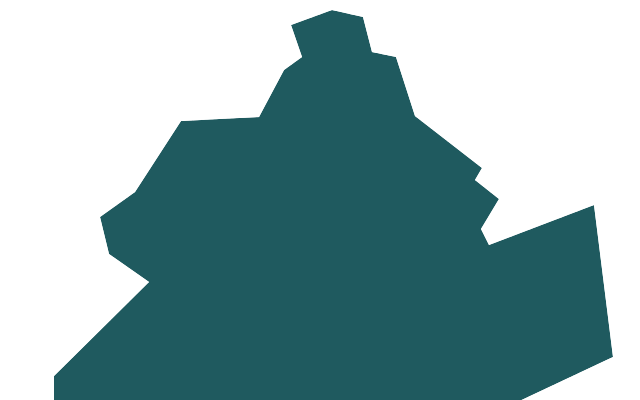
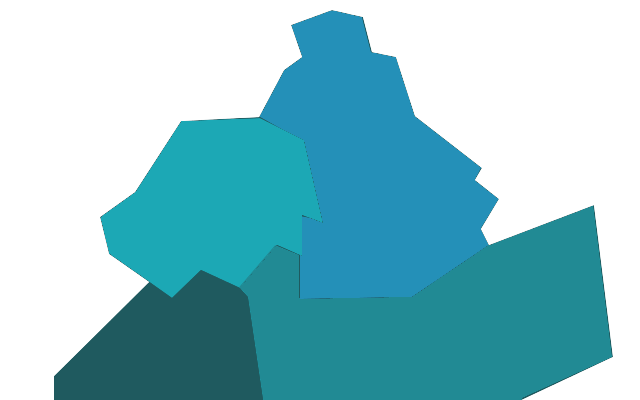
added bk maps zoomed maps unmapped yet

diff --git a/templates/mh_map.html b/templates/mh_map.html
@@ -45,9 +45,9 @@
 
 
 
-    <img src="/static/2.png" width="600" height="902" border="0" usemap="#map_2" style="display: block; float: up" />
+    <img src="/static/2.png" width="600" height="902" border="0" usemap="#map" style="display: block; float: up" />
 
-    <map name="map_2">
+    <map name="map">
     <!-- #$-:Image map file created by GIMP Image Map plug-in -->
     <!-- #$-:GIMP Image Map plug-in by Maurits Rijk -->
     <!-- #$-:Please do not edit lines starting with "#$" -->
@@ -90,52 +90,28 @@
     <p>Click on an area to zoom in</p>
     <br>
 
-    <center><img src="/static/bk_1.png" width="640" height="400" border="0" usemap="#map_bk" style="display: block; float: up" />
-
-    <map name="map_bk">
-    <!-- #$-:Image map file created by GIMP Image Map plug-in -->
-    <!-- #$-:GIMP Image Map plug-in by Maurits Rijk -->
-    <!-- #$-:Please do not edit lines starting with "#$" -->
-    <!-- #$VERSION:2.3 -->
-    <!-- #$AUTHOR:Denis -->
-    <area shape="poly" coords="260,117,285,68,300,57,293,24,335,9,367,17,370,53,396,56,415,119,482,168,476,180,499,199,480,232,489,246,410,298,299,298,302,216,323,221,305,141" href="/map/north_bk" />
-    <area shape="poly" coords="100,216,136,193,179,119,261,119,307,142,324,221,302,218,301,258,277,246,239,288,202,270,171,299,110,254,102,218" href="/map/nw_bk" />
-    <area shape="poly" coords="55,399,55,379,148,281,170,298,205,271,241,288,248,297,263,399" href="/map/sw_bk" />
-    <area shape="poly" coords="265,400,247,297,238,284,276,245,301,256,301,300,411,297,490,245,595,204,614,359,516,399" href="/map/ne_bk" />
-    </map>
-
-    <center><img src="/static/bk_2.png" width="640" height="400" border="0" usemap="#map_bk2" style="display: block; float: up" />
-
-    <map name="map_bk2">
-    <!-- #$-:Image map file created by GIMP Image Map plug-in -->
-    <!-- #$-:GIMP Image Map plug-in by Maurits Rijk -->
-    <!-- #$-:Please do not edit lines starting with "#$" -->
-    <!-- #$VERSION:2.3 -->
-    <!-- #$AUTHOR:Denis -->
-    <area shape="poly" coords="52,0,52,17,39,52,35,131,61,168,151,195,175,164,256,146,249,97,175,89,162,1" href="/map/sw_bk" />
-    <area shape="poly" coords="163,1,176,91,332,103,356,132,383,152,446,148,465,124,448,110,446,62,518,12,521,0" href="map/ne_bk" />
-    <area shape="poly" coords="148,194,163,245,205,265,139,265,139,300,153,310,344,298,345,276,275,271,273,262,372,264,377,244,428,231,444,282,502,266,490,163,377,166,333,101,249,95,254,146,176,162,146,193" href="map/se_bk" />
-    </map>
+    <img src="/static/bk_1.png" width="600" height="902" border="0" usemap="#map" style="display: block; float: up" />
+    <img src="/static/bk_2.png" width="600" height="902" border="0" usemap="#map" style="display: block; float: up" />
 
     {% elif nh == "nw_bk" %}
 
-    <center><img src="/static/nw_bk.png" width="600" height="902" border="0" usemap="#map" style="display: block; float: up" />
+    <img src="/static/nw_bk.png" width="600" height="902" border="0" usemap="#map" style="display: block; float: up" />
 
     {% elif nh == "north_bk" %} 
     
-    <center><img src="/static/north.png" width="600" height="902" border="0" usemap="#map" style="display: block; float: up" />
+    <img src="/static/north.png" width="600" height="902" border="0" usemap="#map" style="display: block; float: up" />
 
     {% elif nh == "ne_bk" %}
 
-    <center><img src="/static/ne_bk.png" width="600" height="902" border="0" usemap="#map" style="display: block; float: up" />
+    <img src="/static/ne_bk.png" width="600" height="902" border="0" usemap="#map" style="display: block; float: up" />
 
     {% elif nh == "sw_bk" %}
 
-    <center><img src="/static/sw_bk.png" width="600" height="902" border="0" usemap="#map" style="display: block; float: up" />
+    <img src="/static/sw_bk.png" width="600" height="902" border="0" usemap="#map" style="display: block; float: up" />
 
     {% elif nh == "se_bk" %}
 
-    <center><img src="/static/se_bk.png" width="600" height="902" border="0" usemap="#map" style="display: block; float: up" />  
+    <img src="/static/se_bk.png" width="600" height="902" border="0" usemap="#map" style="display: block; float: up" />  
 
     {% endif %} 
 

diff --git a/templates/bk_map.html b/templates/bk_map.html
@@ -1,0 +1,45 @@
+<!DOCTYPE html>
+<html lang="en">
+<head>
+	<meta charset="UTF-8">
+	<meta name="viewport" content="width=device-width, initial-scale=1.0">
+    <title>{% block title %}{% endblock %}</title>
+    <link rel="stylesheet" href="{{ url_for('static', filename='css/normalize.css') }}">
+    <link rel="stylesheet" href="{{ url_for('static', filename='css/foundation.css') }}">
+    <link rel="stylesheet" href="{{ url_for('static', filename='css/app.css') }}">
+    <script src="{{ url_for('static', filename='js/vendor/modernizr.js') }}"></script>
+    <script type=text/javascript src="{{
+  url_for('static', filename='jquery.js') }}"></script>
+	<title>Map</title>
+</head>
+<body>
+	<!--button onclick="history.back()">Go back</button-->
+	<br>
+	<div style="white-space: nowrap">
+	<!--img src="/static/1.png" style="display: block; float: up"-->
+	<!--img src="/static/2.png" style="display: block; float: up"-->
+
+    <center><img src="/static/bk_1.png" style="display: block; float: up" width="600" height="902" border="0" usemap="#map1" />
+
+    
+
+    <center><img src="/static/bk_2.png" width="600" height="902" border="0" usemap="#map" style="display: block; float: up" />
+
+
+	</div>
+
+
+	<script src="{{ url_for('static', filename='js/vendor/jquery.js') }}"></script>
+    <script src="{{ url_for('static', filename='js/foundation.min.js') }}"></script>
+    <script>
+    $(document).foundation();
+    </script>
+    <script src="{{ url_for('static', filename='js/app.js') }}"></script>
+    <script src="../static/js/jquery.rwdImageMaps.min.js"></script>
+    <script type="text/javascript">
+        $(document).ready(function(){
+            $('img[usemap]').rwdImageMaps();
+        });
+    </script>
+</body>
+</html>

diff --git a/templates/base.html b/templates/base.html
@@ -78,8 +78,8 @@
                 <li class="has-dropdown">
                     <a href="">Change Neighborhood</a>
                     <ul class="dropdown">
-                        <li><a href="/map">Manhattan</a></li>
-                        <li><a href="">Brooklyn</a></li>
+                        <li><a href="/map/Manhattan">Manhattan</a></li>
+                        <li><a href="/map/Brooklyn">Brooklyn</a></li>
                         <li><a href="">Queens</a></li>
                         <li><a href="">Bronx</a></li>
                     </ul>

diff --git a/app.py b/app.py
@@ -171,9 +171,9 @@ def check_key():
 def my_hood():
 	return render_template('my_hood.html')
 
-@app.route('/map')
-def map():
-	return render_template('map.html')
+@app.route('/map/<neighborhood>')
+def map(neighborhood):
+	return render_template('map.html', nh = neighborhood)
 	#return send_file('static/nh_map_small.jpg', mimetype='image/gif')
 
 @app.route('/check_key_not_nyc', methods=["GET", "POST"])
